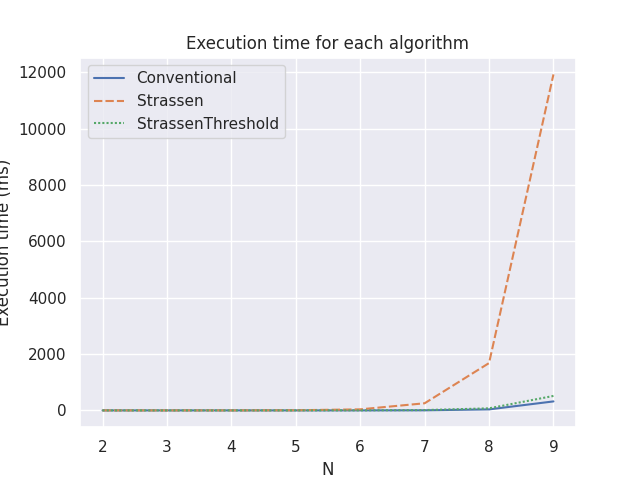
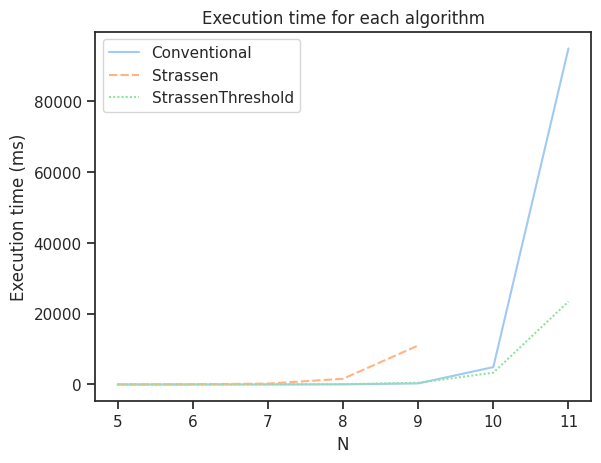
Reevaluate algorithm execution times with new data

diff --git a/TP1/analysis/execution_times.md b/TP1/analysis/execution_times.md
@@ -1,10 +1,9 @@
-|    |   Conventional |      Strassen |   StrassenThreshold |
-|---:|---------------:|--------------:|--------------------:|
-|  2 |      0.0005196 |     0.0231708 |           0.0006735 |
-|  3 |      0.0013507 |     0.109743  |           0.0118894 |
-|  4 |      0.0069645 |     0.758187  |           0.0353869 |
-|  5 |      0.0709241 |     5.03692   |           0.224444  |
-|  6 |      0.430068  |    37.5018    |           1.55796   |
-|  7 |      3.3       |   252.895     |          11.3178    |
-|  8 |     35.5817    |  1679.11      |          73.3099    |
-|  9 |    318.958     | 11920.3       |         513         |
+|    |   Conventional |    Strassen |   StrassenThreshold |
+|---:|---------------:|------------:|--------------------:|
+|  5 |      0.0493264 |     4.76004 |            0.224361 |
+|  6 |      0.39252   |    32.7991  |            1.4548   |
+|  7 |      3.18446   |   240.988   |           10.1889   |
+|  8 |     33.1154    |  1602.5     |           70.9102   |
+|  9 |    291.429     | 11000.1     |          472.995    |
+| 10 |   4901.13      |   nan       |         3324.28     |
+| 11 |  94898.7       |   nan       |        23410.5      |
